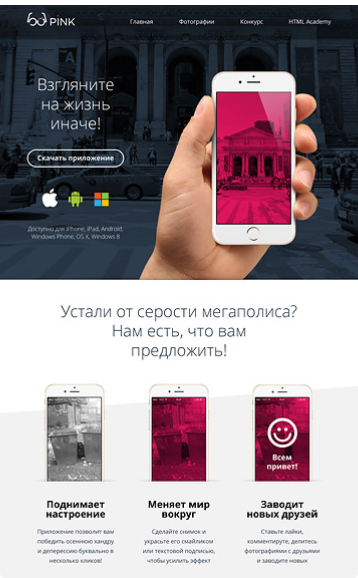
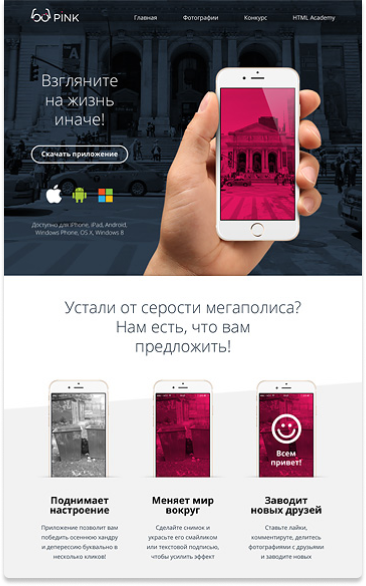
Дописали секцию cards

Changed region(s): [[0.0, 0.0, 1.0, 0.6228], [0.0, 0.654, 0.9832, 0.9965]]

diff --git a/assets/css/cards.css b/assets/css/cards.css
@@ -1,3 +1,12 @@
+.cards__item {
+    position: relative;
+}
+
+.cards__item:hover .cards__info {
+    opacity: 100%;
+    transition: 0.3s;
+}
+
 .cards__list {
     list-style: none;
     display: grid;
@@ -13,6 +22,12 @@
     text-align: center;
     background-color: #eeeeee;
     padding: 26px 80px 44px;
+    position: absolute;
+    bottom: 0;
+    width: 100%;
+    opacity: 0;
+    transition: 0.3s;
+    box-shadow: 0 4px 4px 0 rgba(0, 0, 0, 0.25);
 }
 
 .cards__title {
@@ -42,9 +57,10 @@
     text-align: center;
     color: #fff;
     border-radius: 3px;
-    width: 200px;
     height: 50px;
     background-color: #fb565a;
     text-decoration: none;
-    padding: 17px 72px 15px;
+    padding: 17px 0px 15px;
+    display: inline-block;
+    width: 100%;
 }

diff --git a/catalog.html b/catalog.html
@@ -375,6 +375,11 @@
                                     </li>
                                 </ul>
                             </div>
+                            <div class="pagination">`
+                                <ul class="pagination__list">
+                                    li.pagination__item
+                                </ul>
+                            </div>
                         </div>
                     </div>
                 </div>
